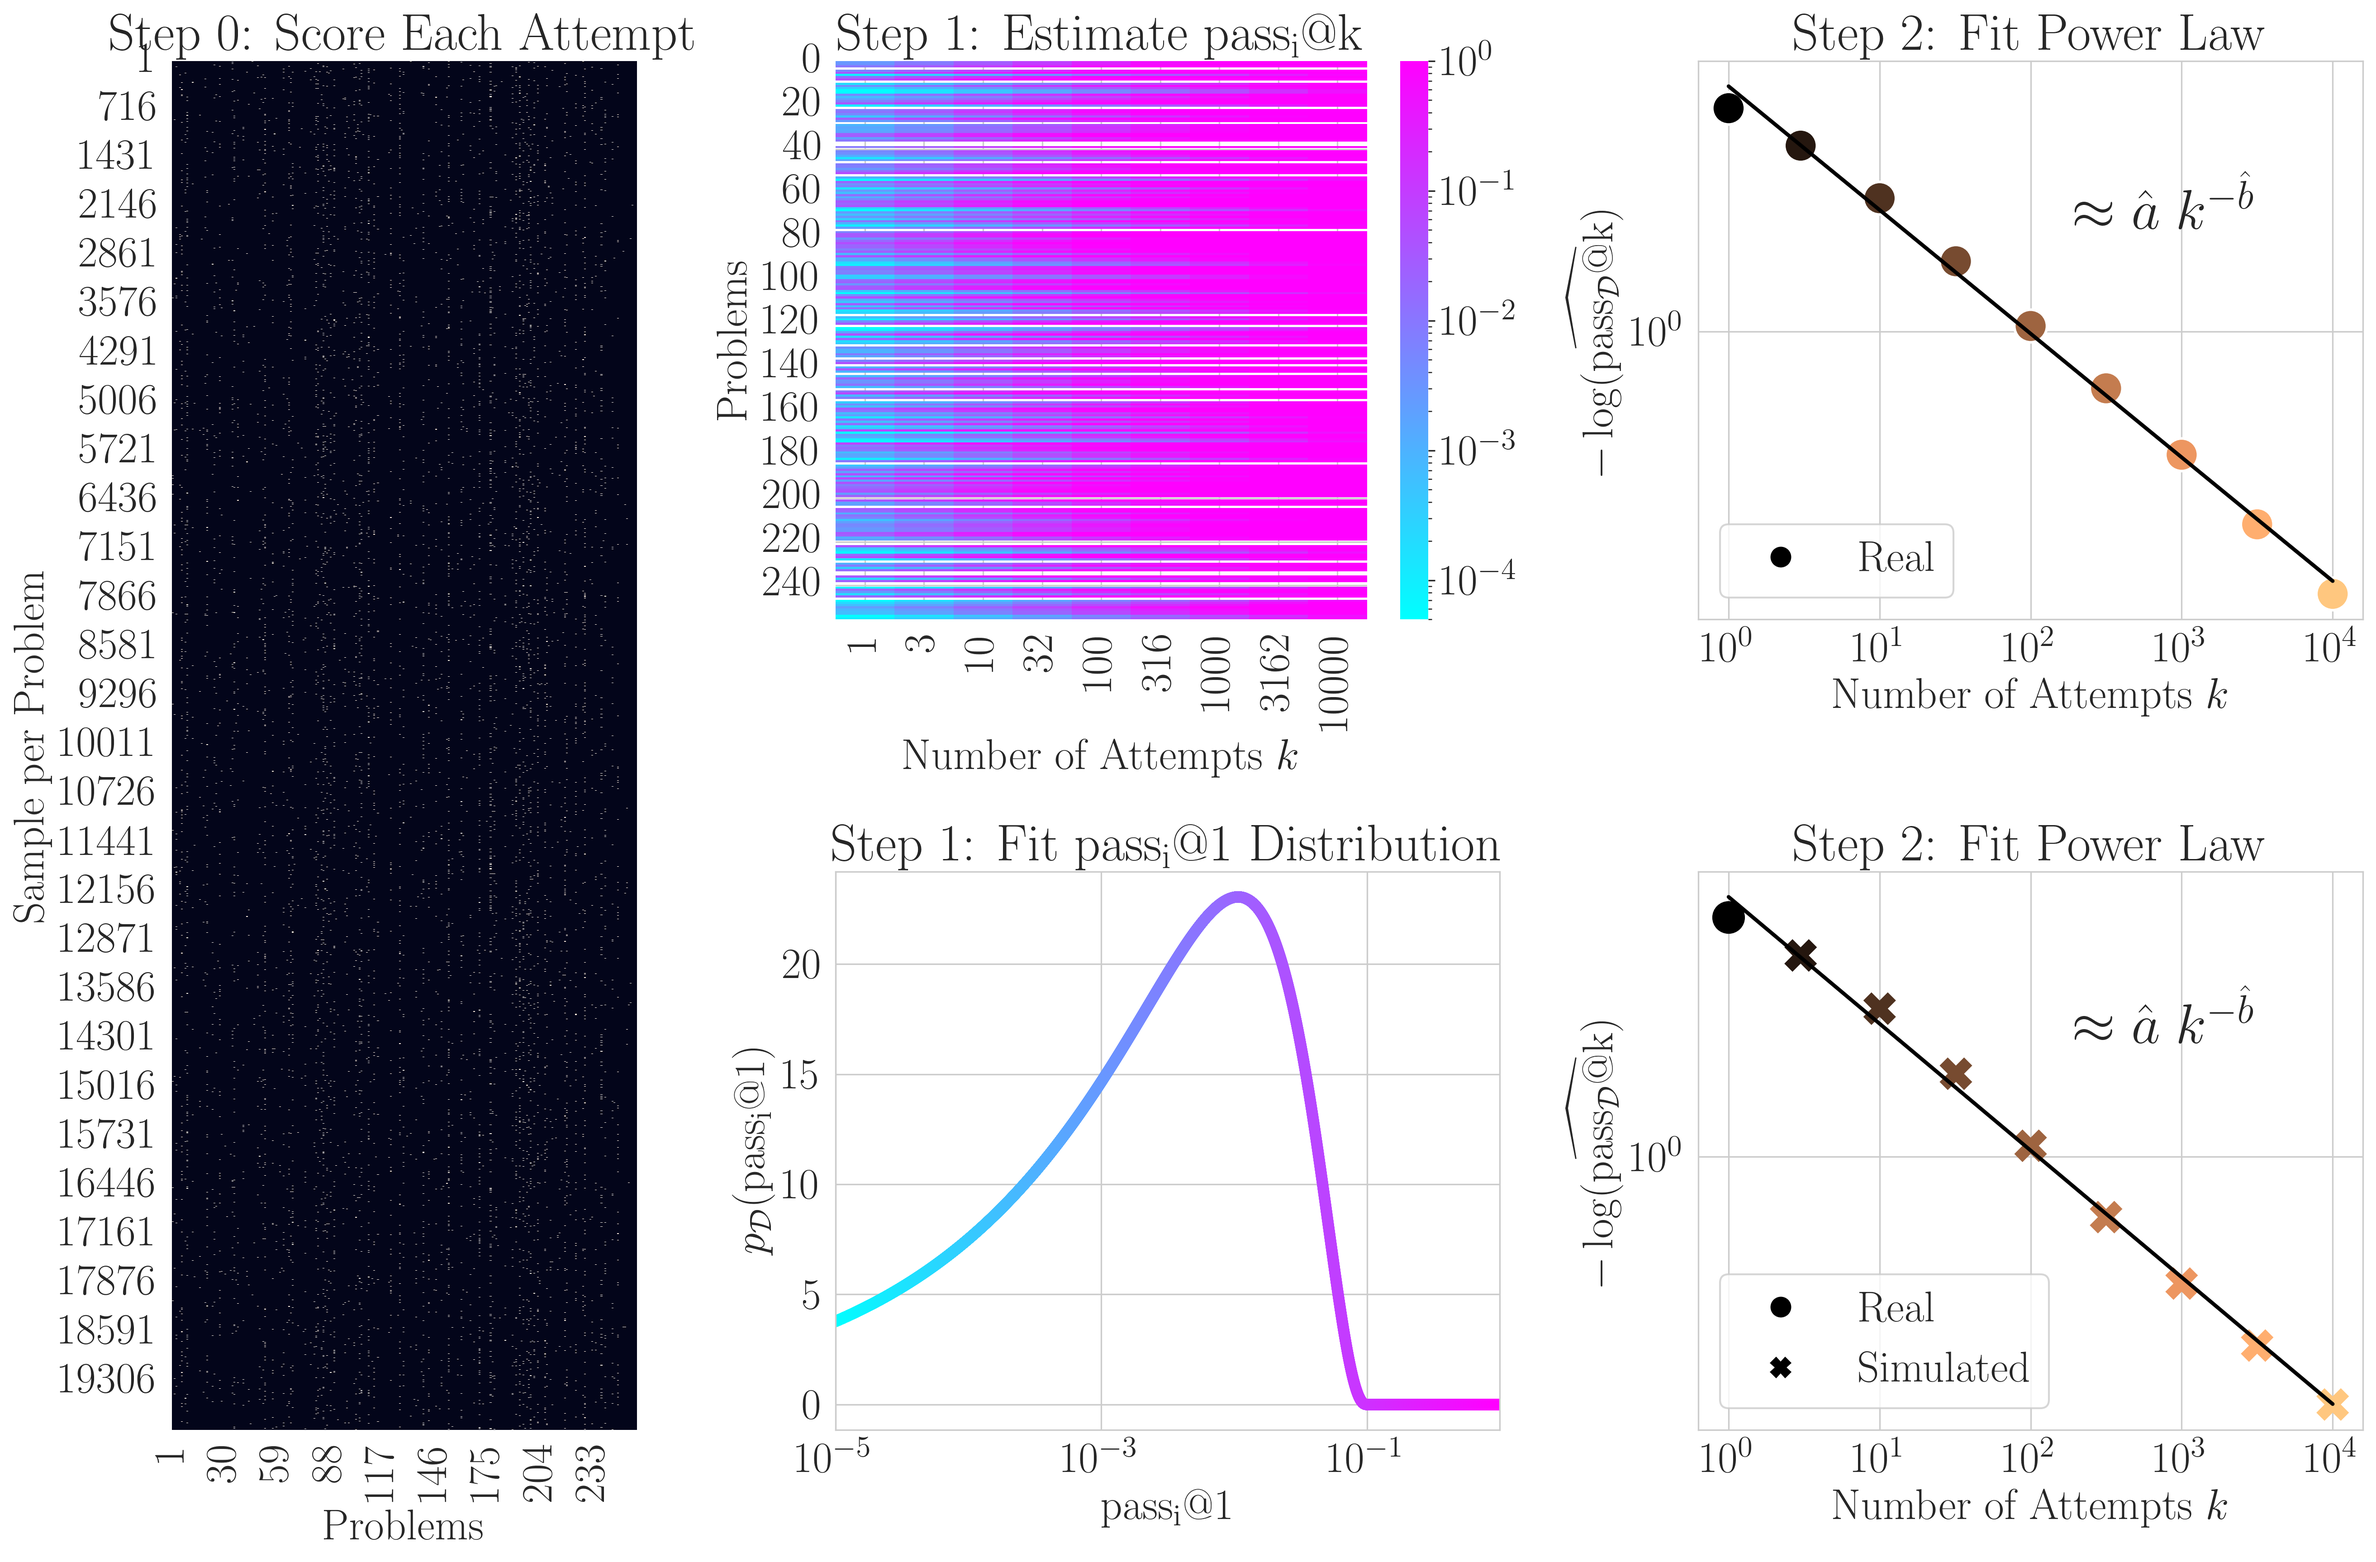
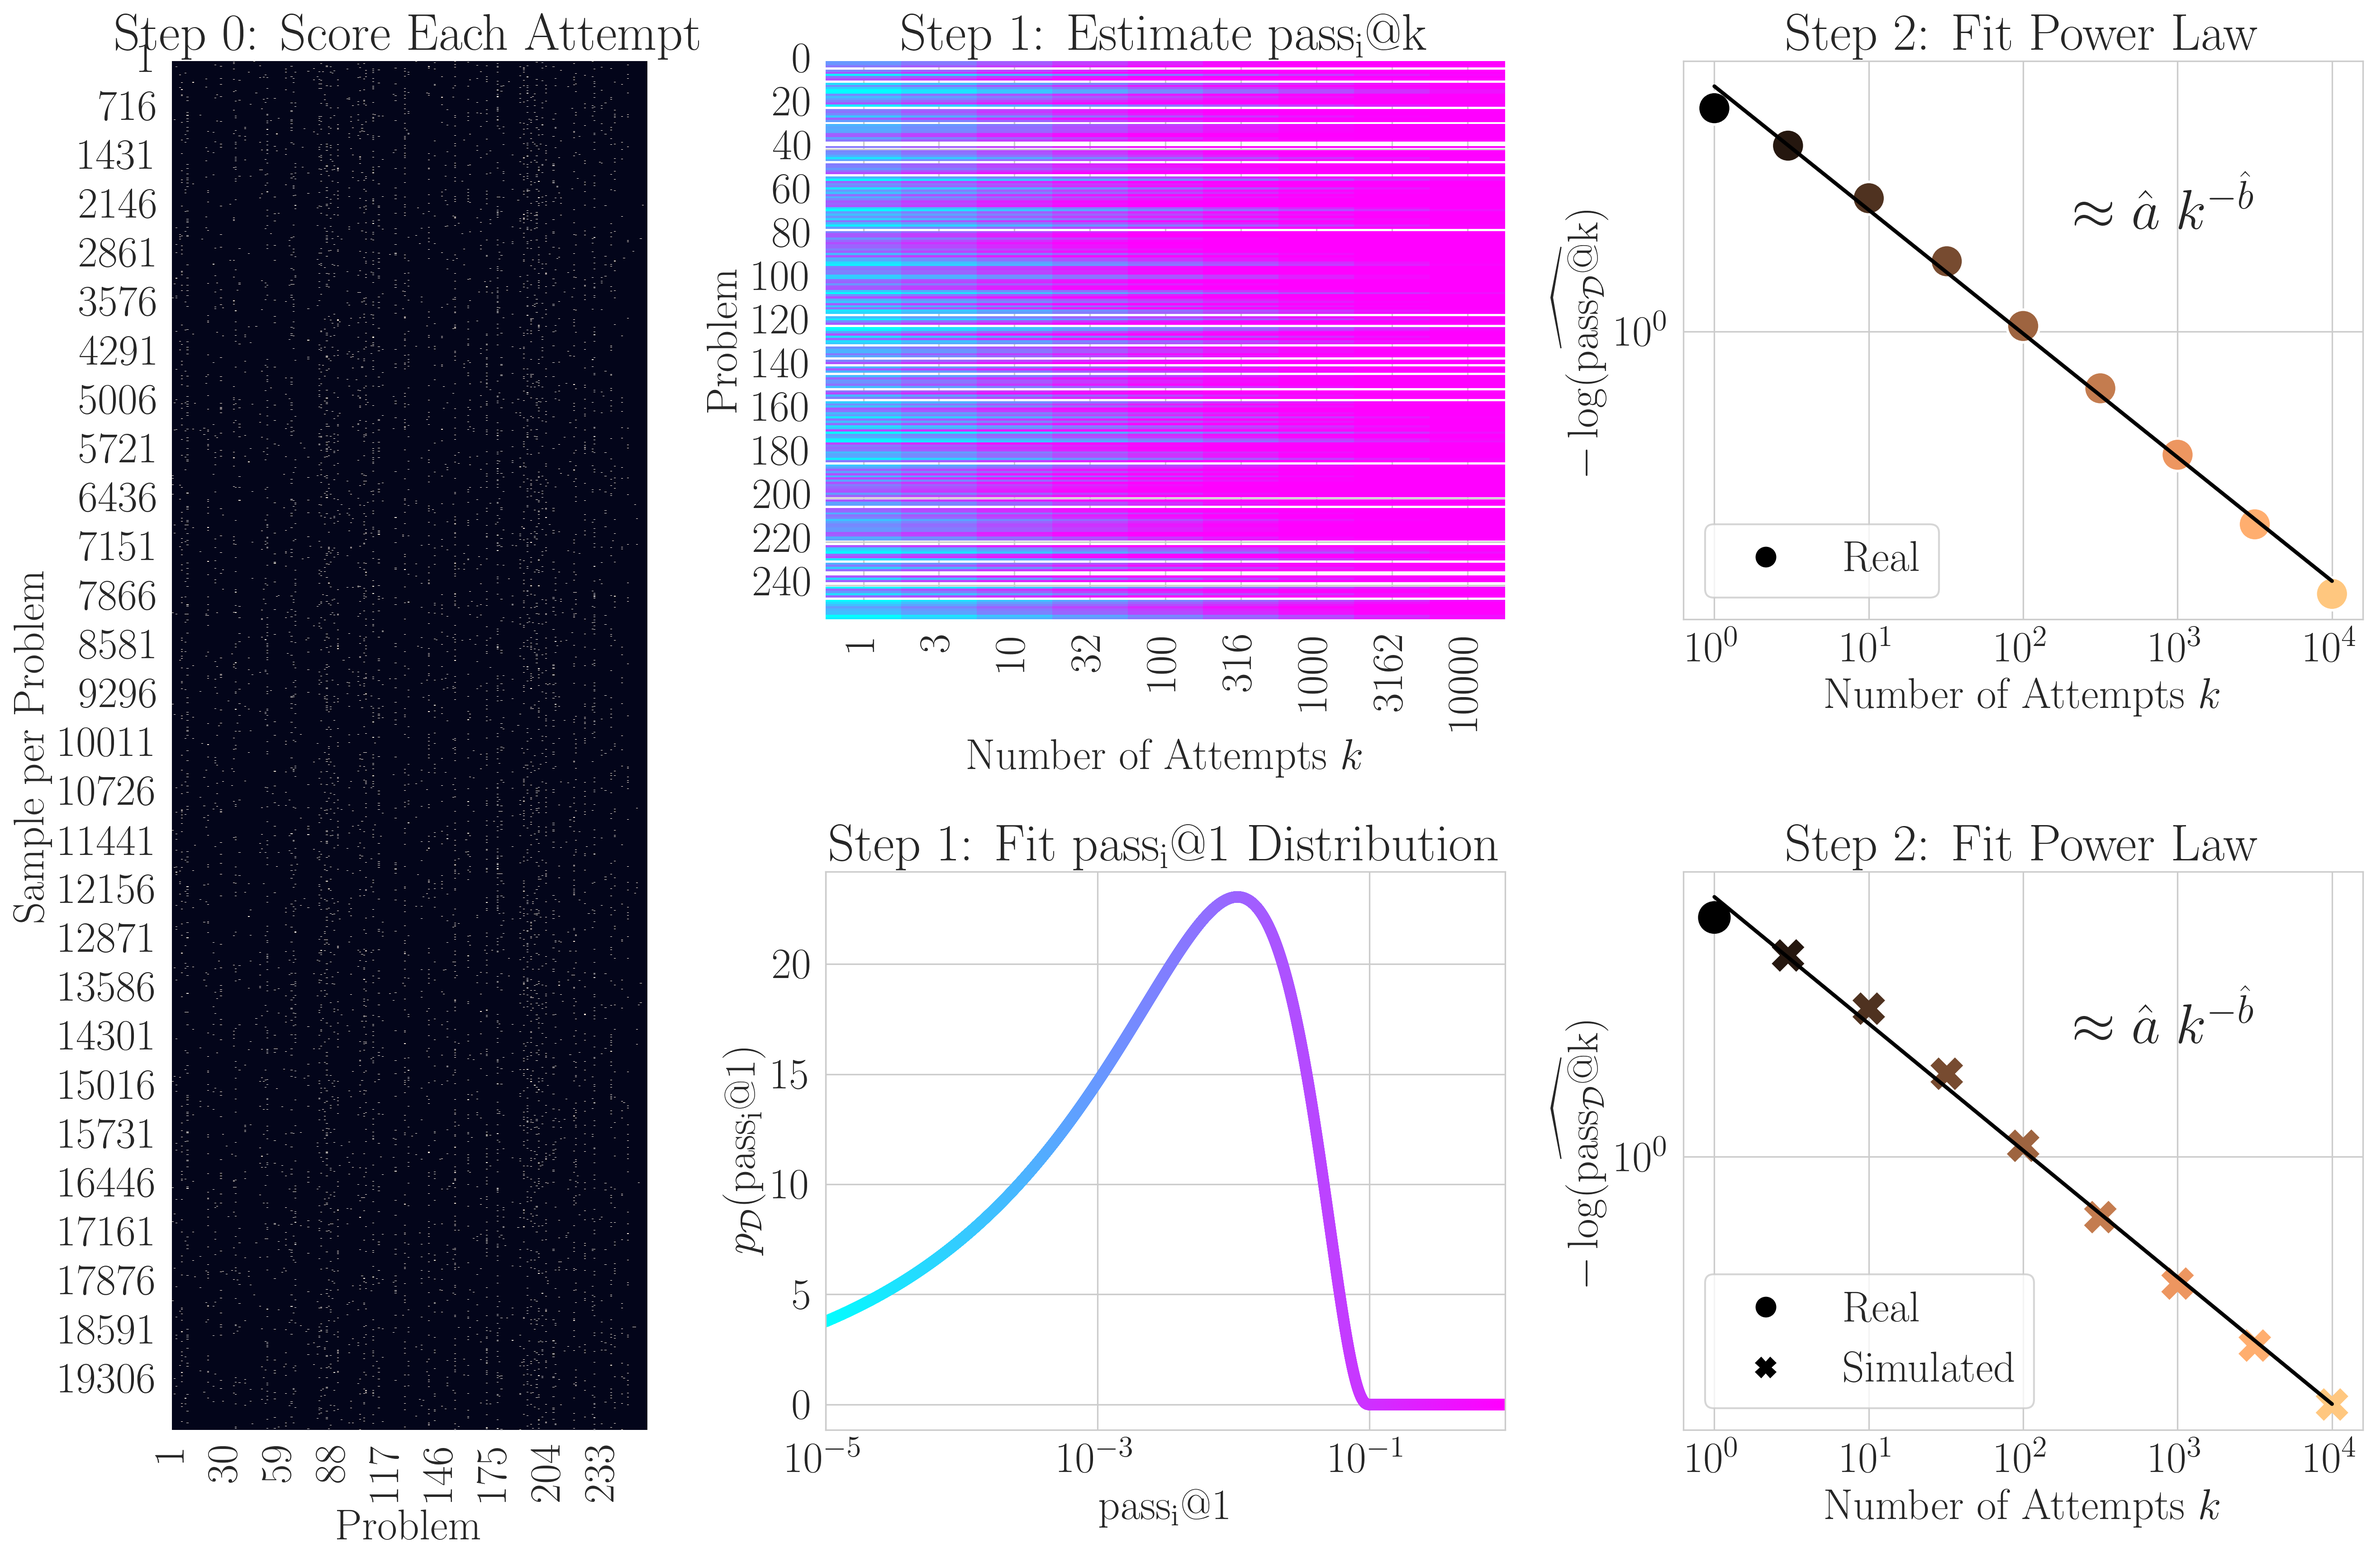
Polishing Attempted 2nd schematic

diff --git a/notebooks/92_schematic_distributional_fitting_attempt2/92_schematic_distributional_fitting_attempt2.py b/notebooks/92_schematic_distributional_fitting_attempt2/92_schematic_distributional_fitting_attempt2.py
@@ -149,21 +149,21 @@ sns.heatmap(
     cbar=False,
 )
 ax00.set(
-    xlabel="Problems",
+    xlabel="Problem",
     ylabel="Sample per Problem",
     title=r"Step 0: Score Each Attempt",
 )
-# ax01 = axes[0, 1]
 sns.heatmap(
     data=estimated_pass_i_at_k_pivoted_df,
     ax=ax01,
     cmap="cool",
     # cbar_kws={"label": r"$\widehat{\operatorname{pass_i@k}}$"},
     norm=LogNorm(),
+    cbar=False,
 )
 ax01.set(
     xlabel=r"Number of Attempts $k$",
-    ylabel="Problems",
+    ylabel="Problem",
     title=r"Step 1: Estimate $\operatorname{pass_i@k}$",
 )
 # ax02 = axes[0, 2]
